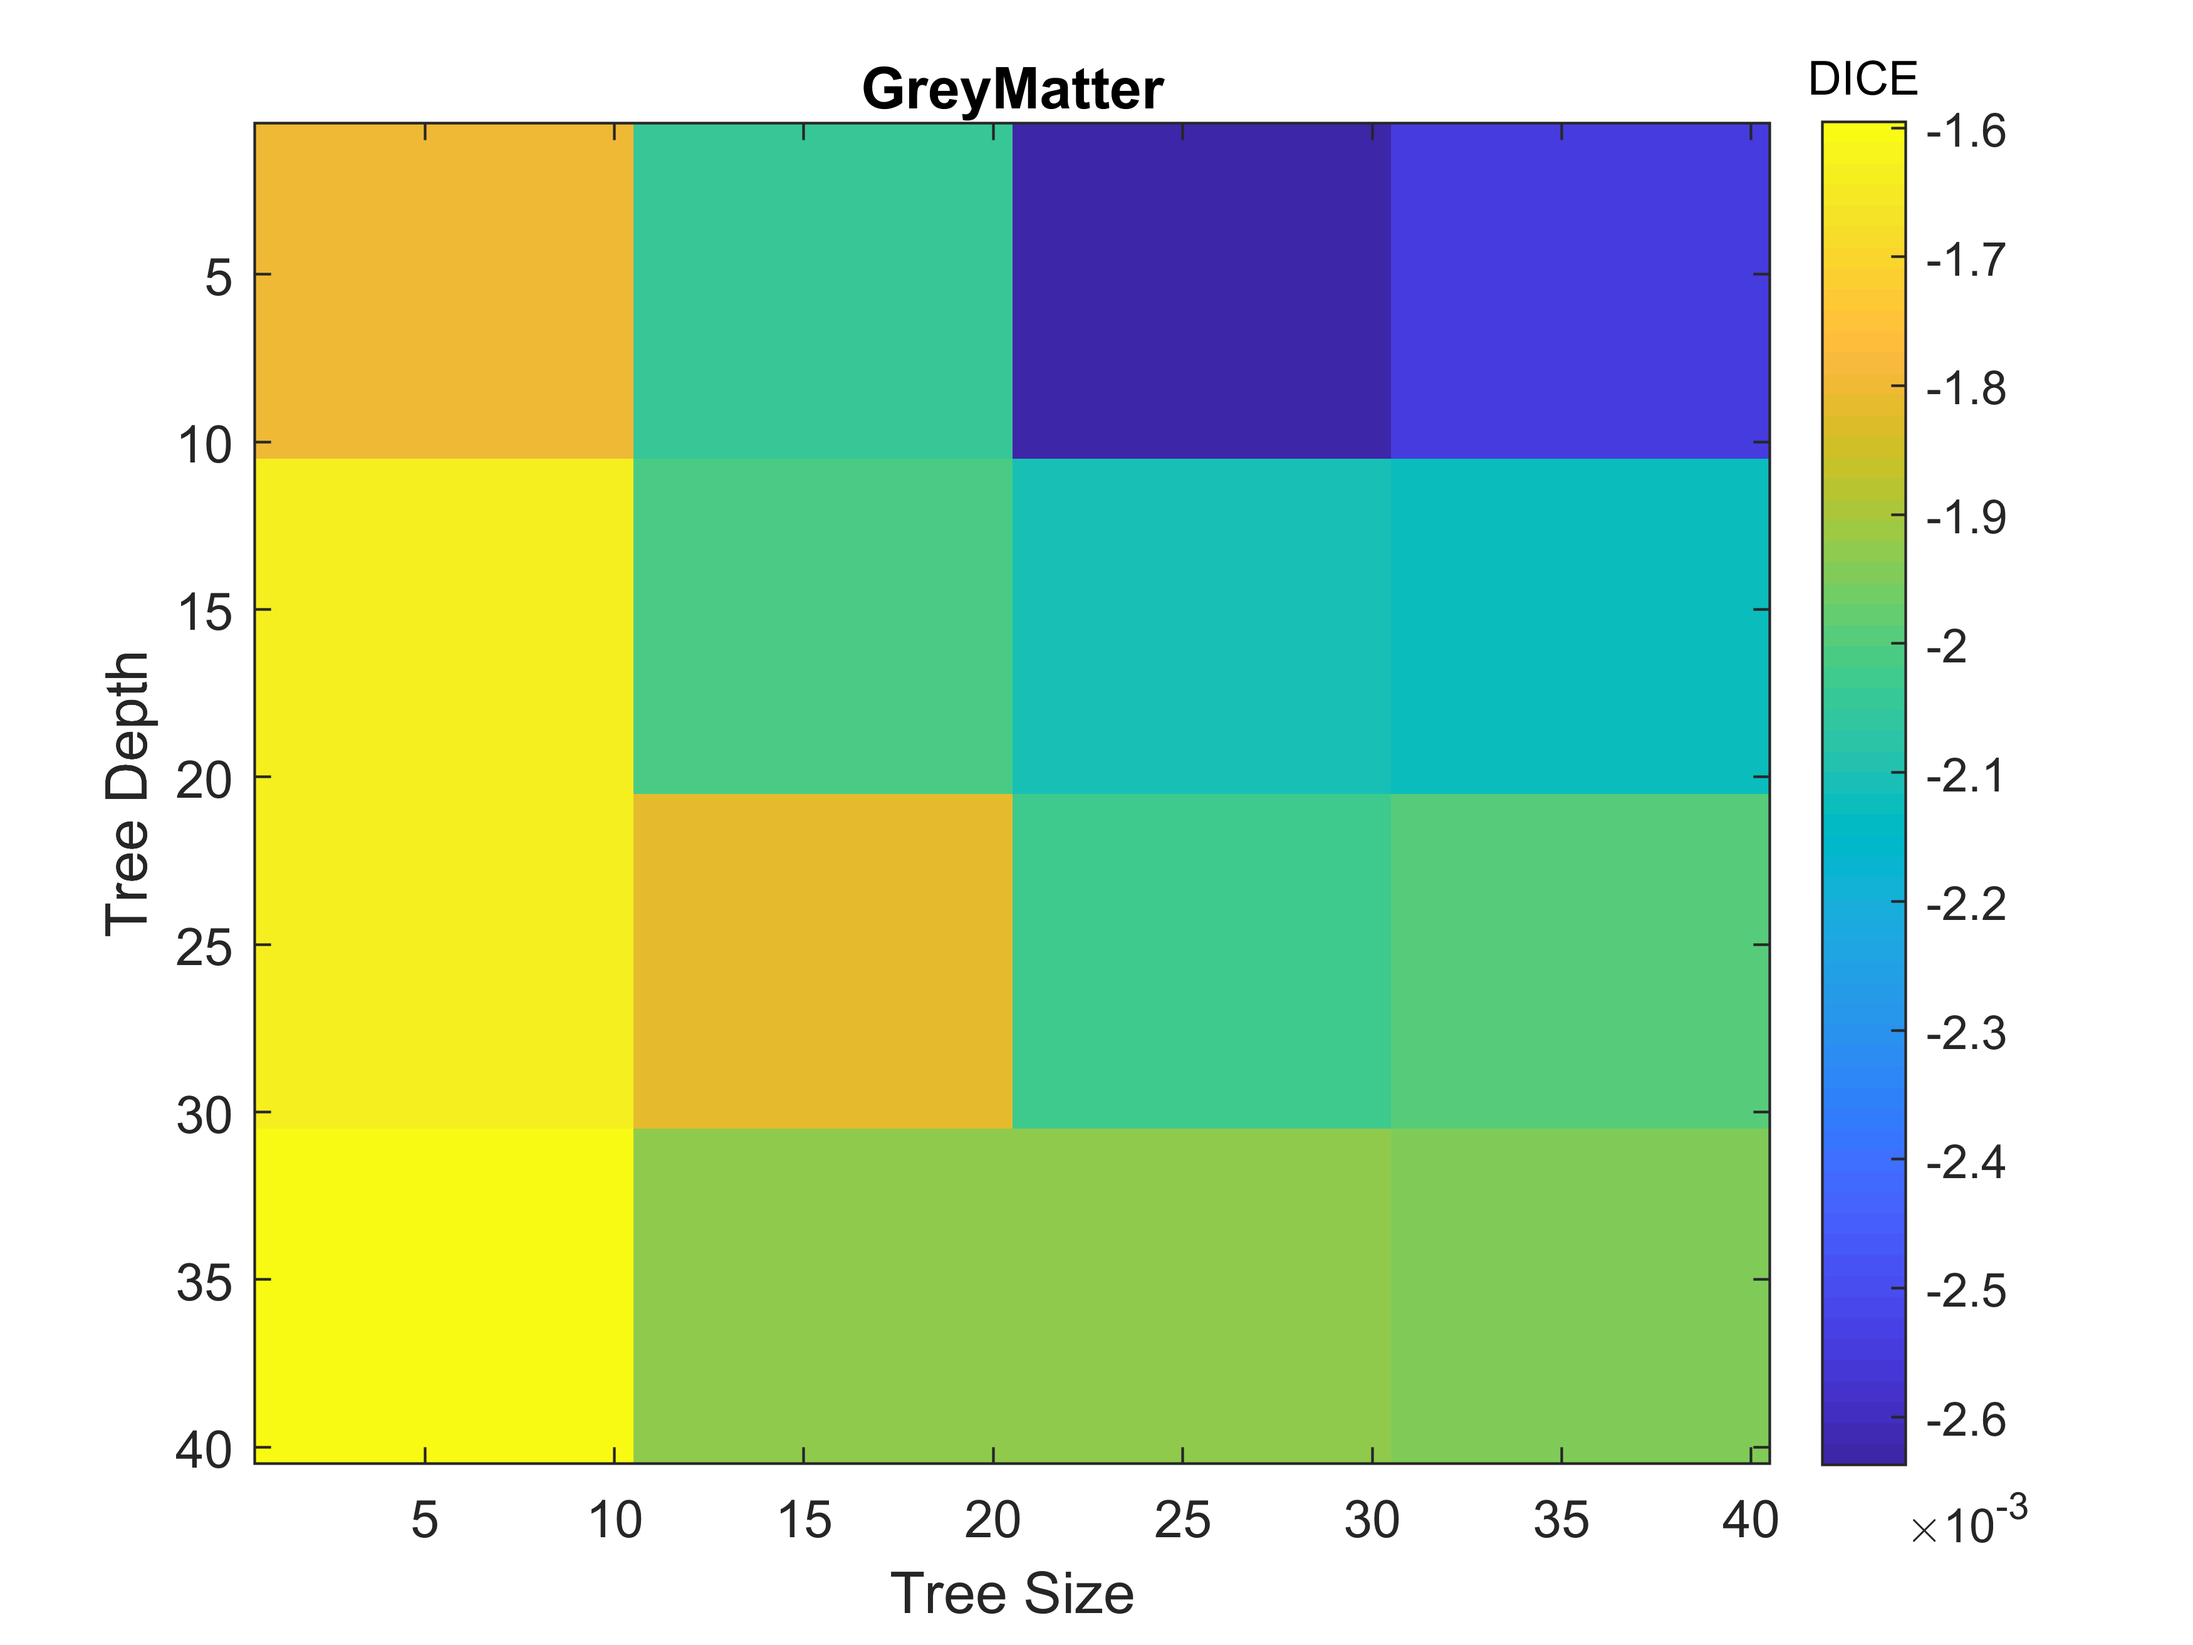
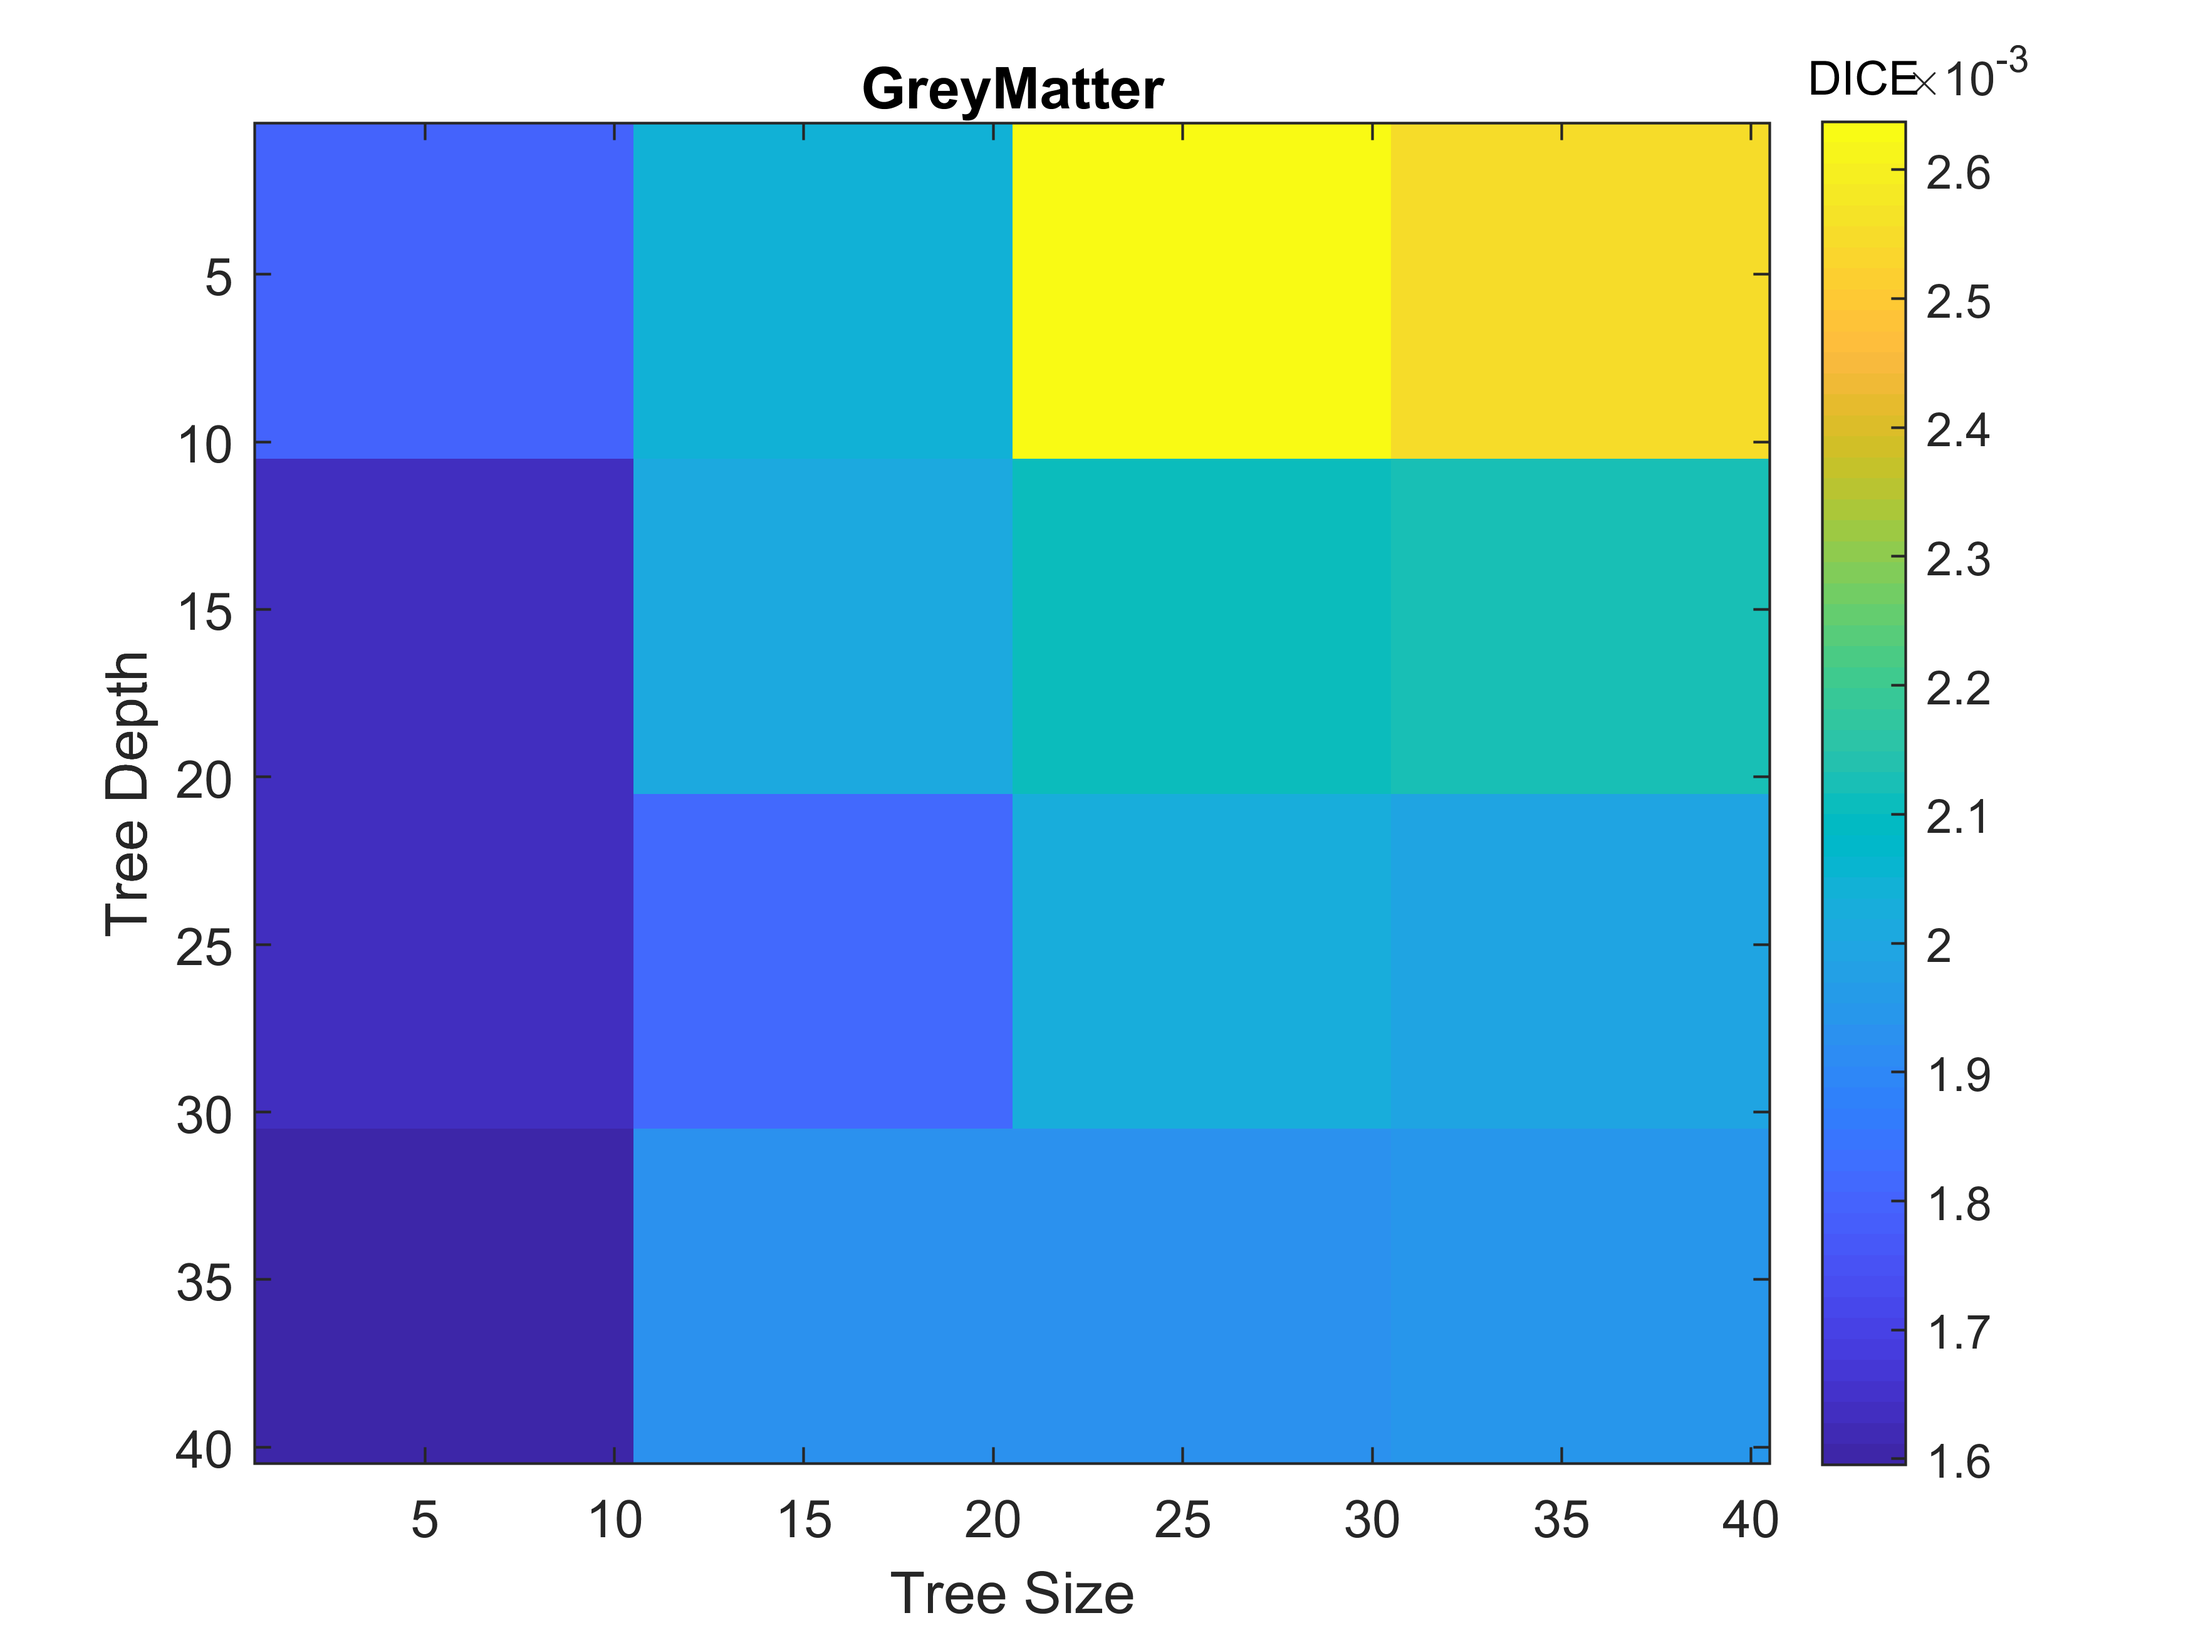
changed ones more heatmap result representation

diff --git a/matlab/showHeatmap.m b/matlab/showHeatmap.m
@@ -14,7 +14,8 @@ for lbl = 1:length(lbl_list)
         t_pp = t_pp(contains(t_pp.LABEL,lbl_list{lbl}),:);
         
         % Fill table content
-        diffHDRFDST(idx) = median(t_org.HDRFDST)-median(t_pp.HDRFDST);
+        diffHDRFDST(idx) = median(t_pp.HDRFDST)-median(t_org.HDRFDST);
+%         diffHDRFDST(idx) = median(t_pp.DICE)-median(t_org.DICE);
         csvSize{idx}  = csv.name(9:10);
         csvDepth{idx} = csv.name(12:13);
         
@@ -36,5 +37,6 @@ for lbl = 1:length(lbl_list)
     ylabel('Tree Depth');
     cb = colorbar;
     title(cb,'HDRFDST')
+%     title(cb,'DICE')
     
 end
